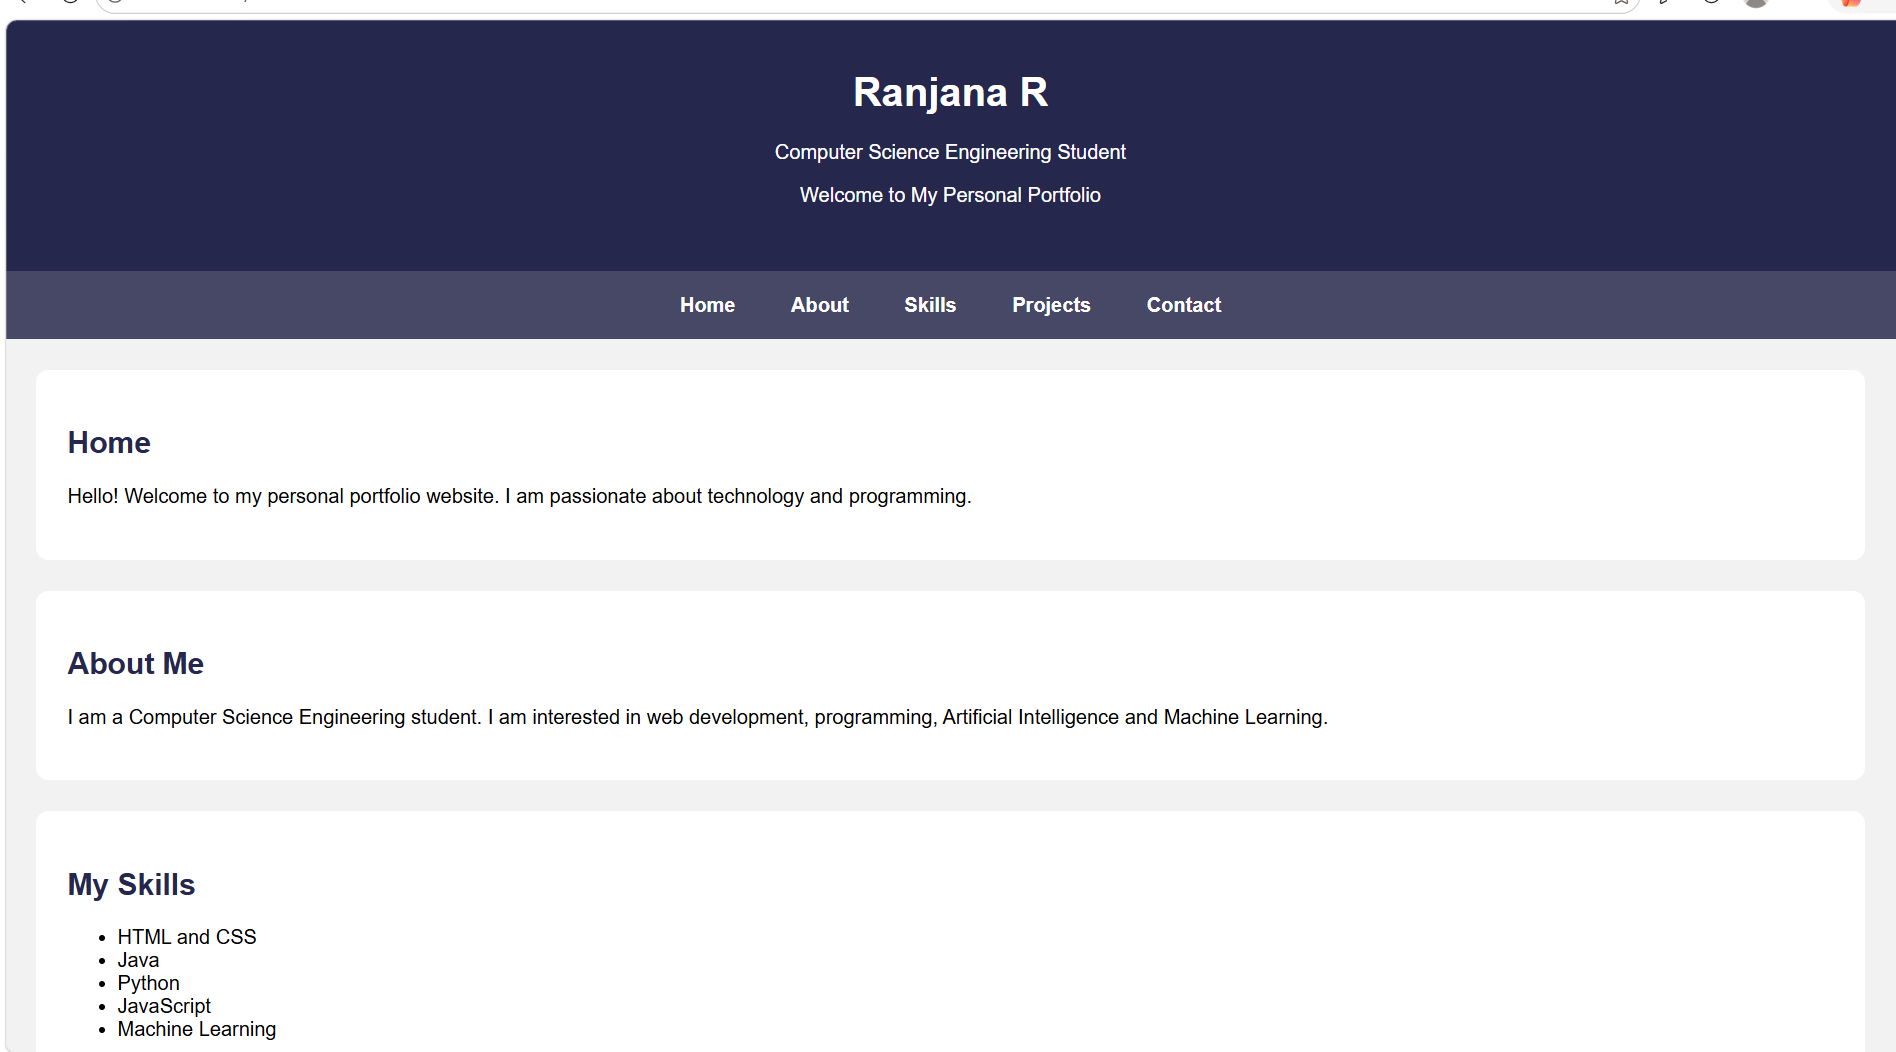
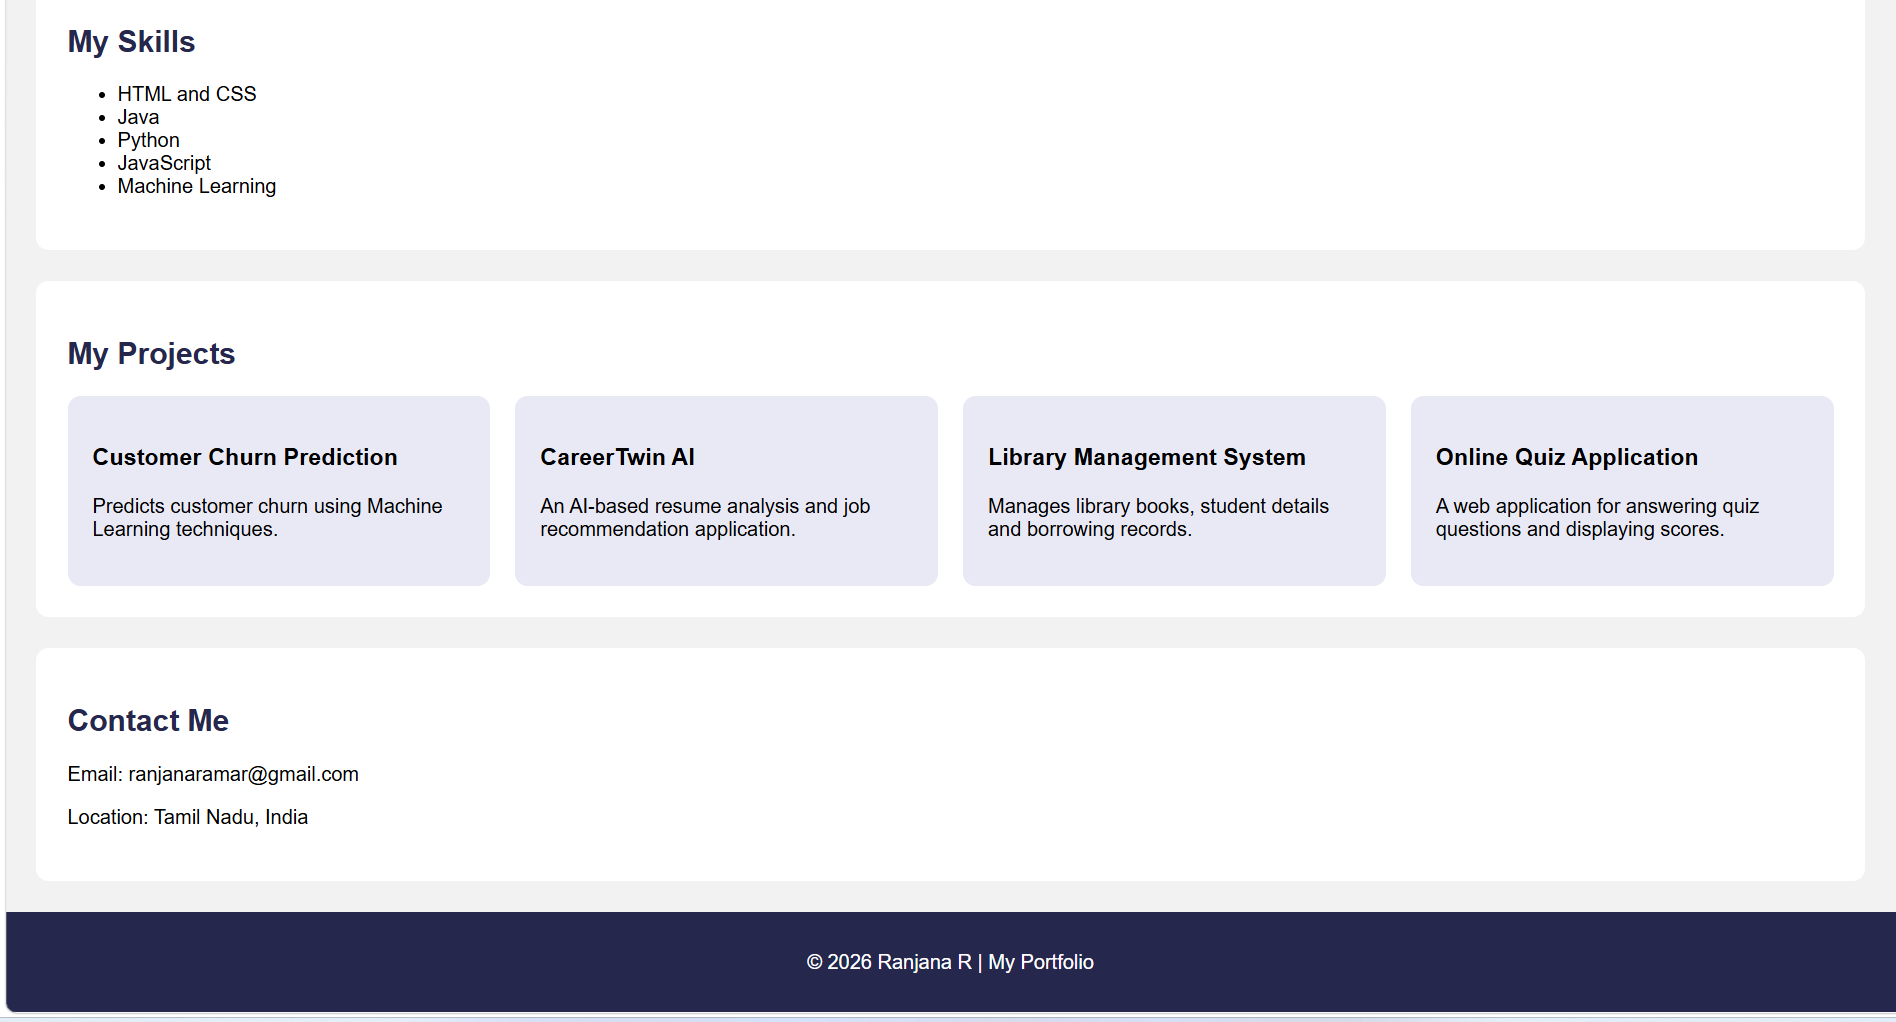
Updated README file

diff --git a/index.html b/index.html
@@ -51,6 +51,14 @@
             flex-wrap: wrap;
             gap: 20px;
         }
+        .profile {
+    width: 130px;
+    height: 130px;
+    border-radius: 50%;
+    object-fit: cover;
+    border: 3px solid white;
+    margin-bottom: 10px;
+}
 
         .project {
             background-color: #e8e9f5;
@@ -77,6 +85,7 @@
 <body>
 
     <header>
+          <img src="myphoto.png" alt="My Profile Picture" class="profile">
         <h1>Ranjana R</h1>
         <p>Computer Science Engineering Student</p>
         <p>Welcome to My Personal Portfolio</p>
